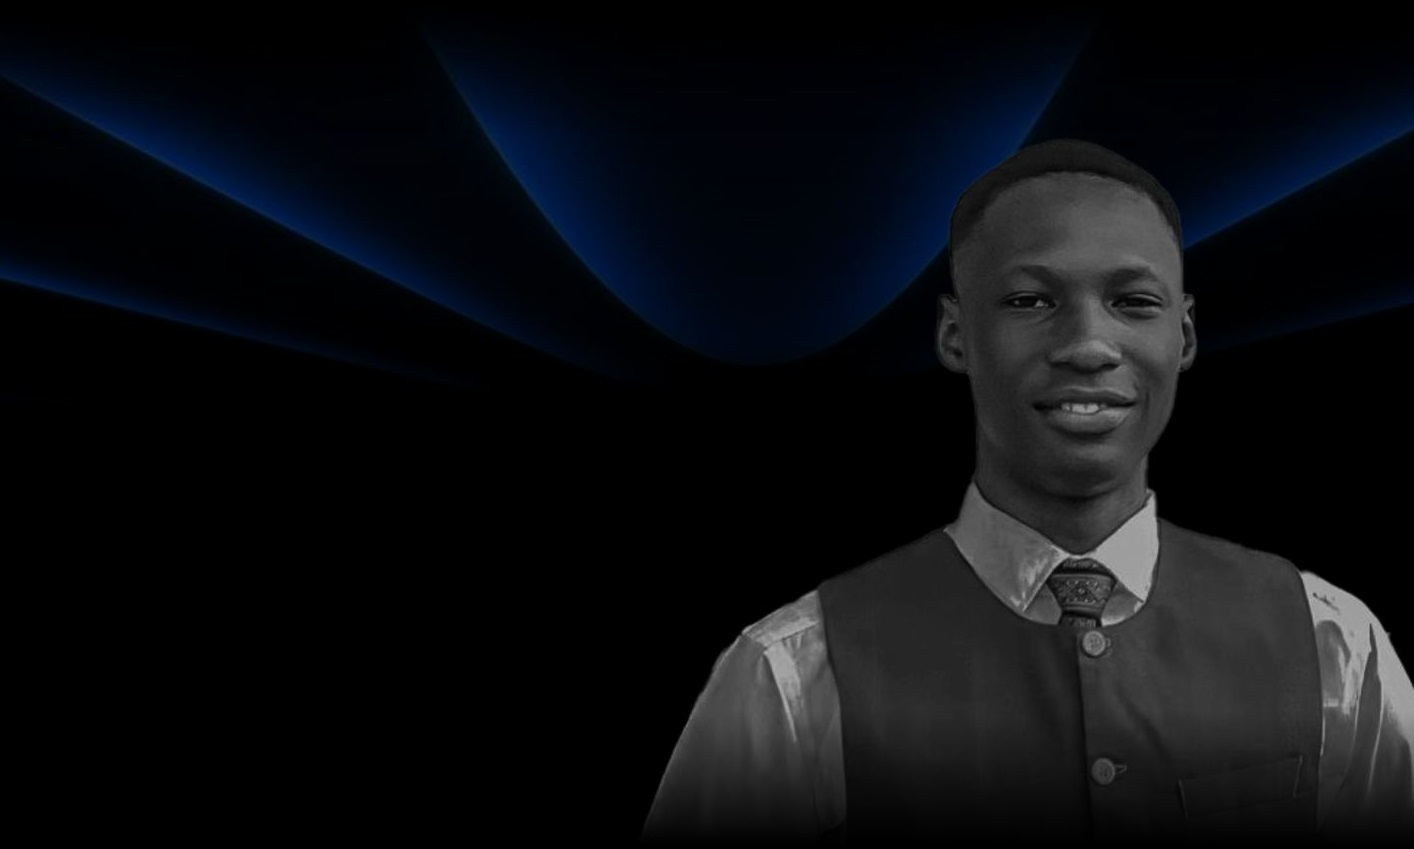
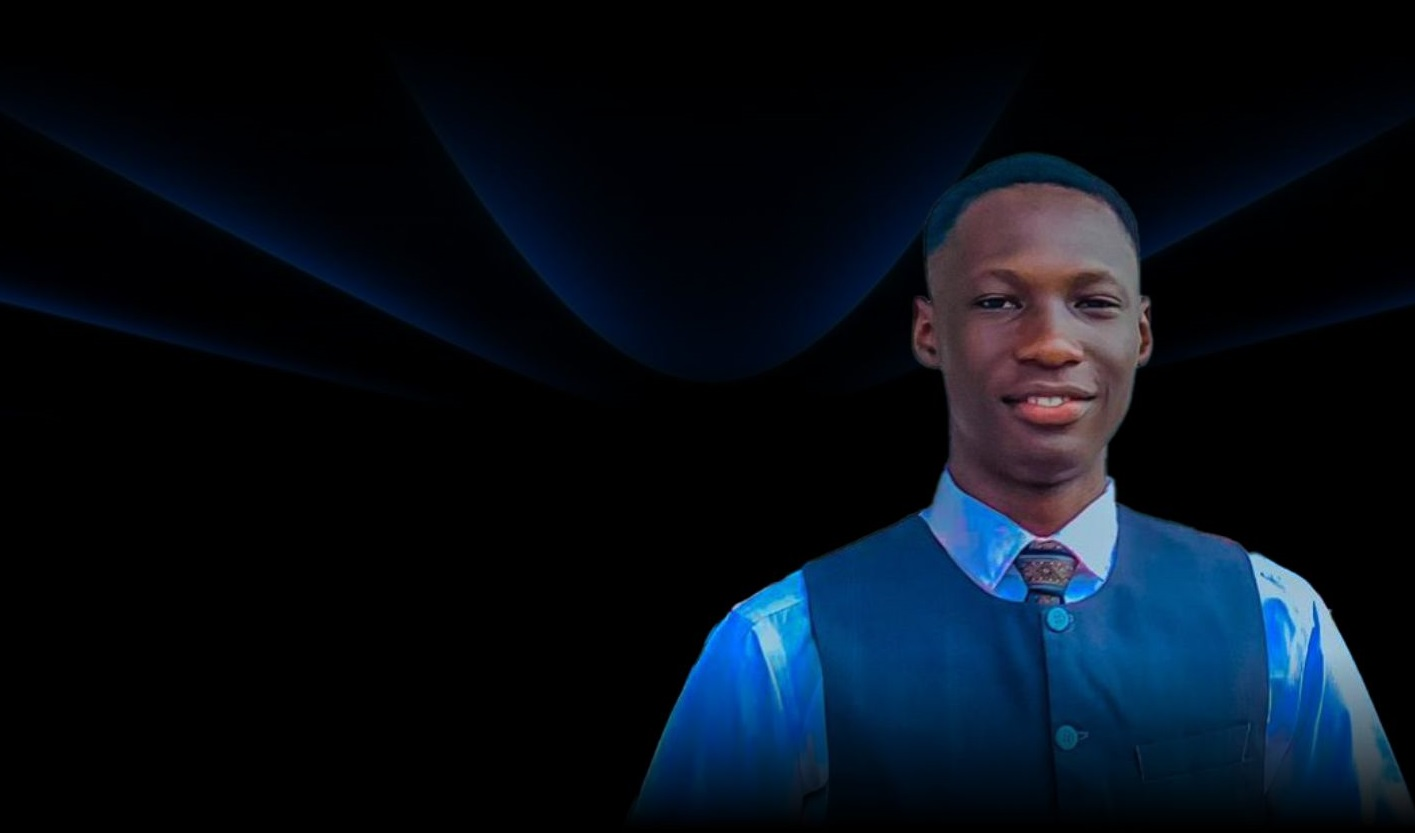
improved aboutsection

diff --git a/src/assets/component/AboutSection.jsx b/src/assets/component/AboutSection.jsx
@@ -18,7 +18,7 @@ const AboutSection = () => {
     <motion.div
       id="About"
       className="relative md:py-30 px-12 md:px-46 h-full bg-cover bg-center bg-no-repeat w-full
-             bg-[url('/images/mobile2.jpg')] md:bg-[url('/images/screen.jpg')]"
+             bg-[url('/images/mobile3.jpg')] md:bg-[url('/images/screen.jpg')]"
       
       
       initial="hidden"
@@ -53,4 +53,4 @@ const AboutSection = () => {
   );
 };
 
-export default AboutSection
+export default AboutSection;
